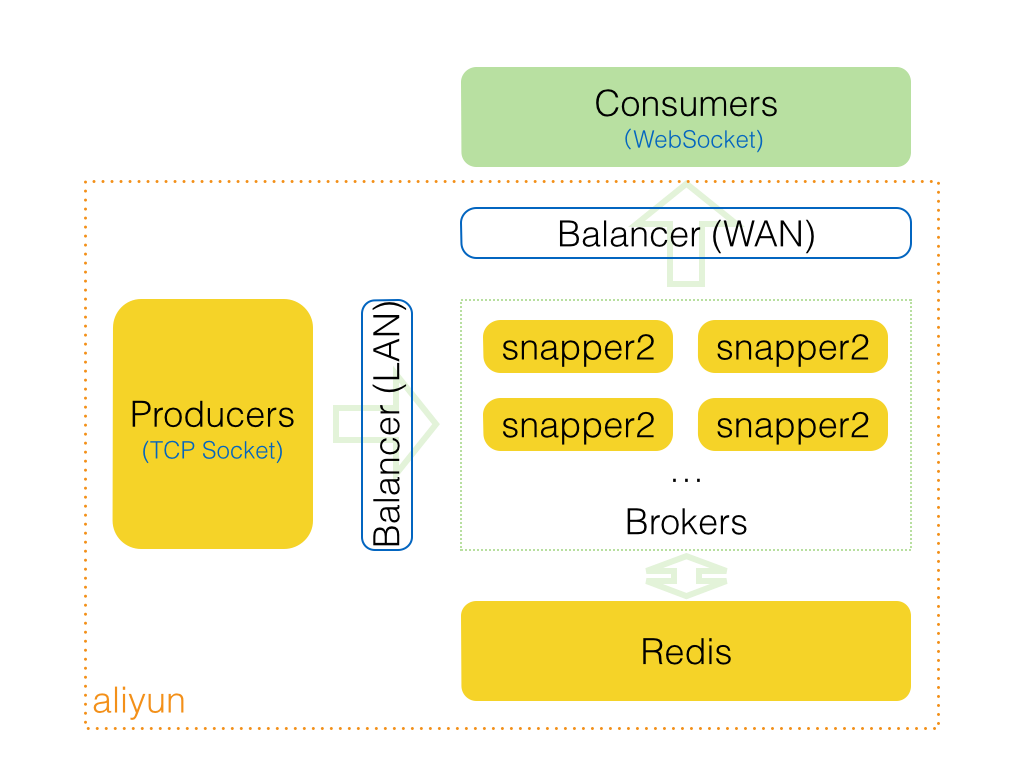
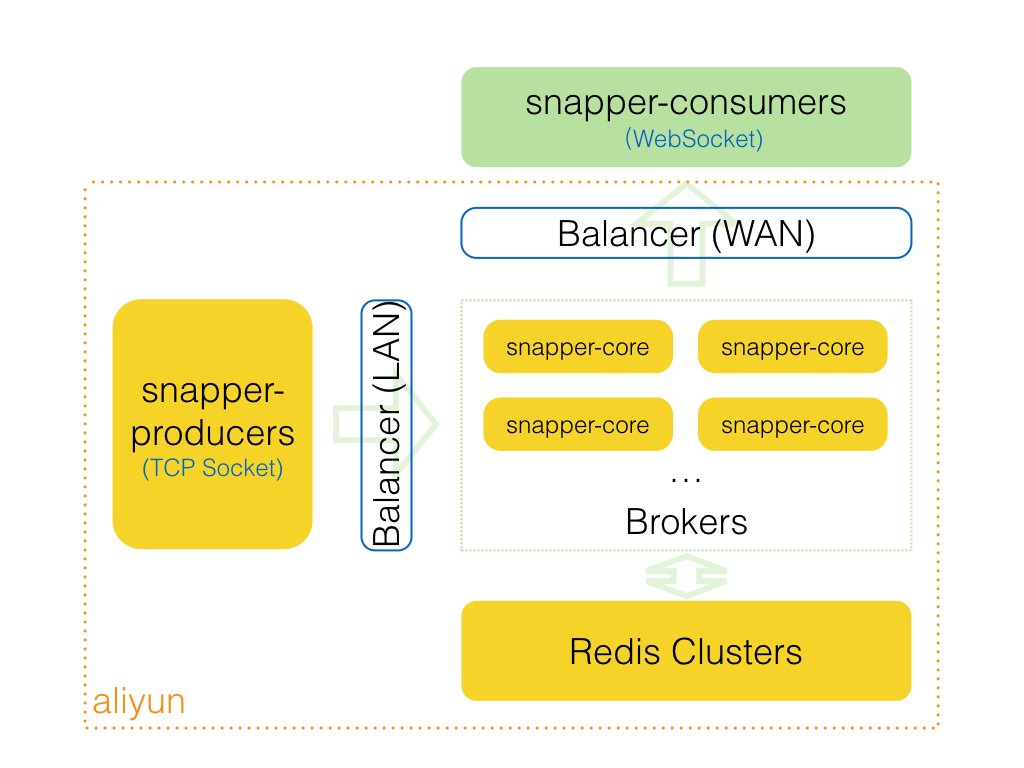
update documents

diff --git a/docs/snapper.md b/docs/snapper.md
@@ -2,33 +2,200 @@ Snapper：Teambition 分布式消息推送系统
 ====
 Teambition push messaging service, based on redis.
 
-[Snapper](https://github.com/teambition/snapper-core) 是 Teambition 开源的一个运行于 Node.js 环境的分布式消息推送系统。不同于 [kafka](https://github.com/apache/kafka)、[RabbitMQ](https://github.com/rabbitmq/rabbitmq-server)、[ActiveMQ](https://github.com/apache/activemq)，Snapper 主要用于向浏览器端、移动端推送实时消息，目前正用于 Teambition Web 端消息推送。
+[Snapper](https://github.com/teambition/snapper-core) 是 Teambition 开源的一个运行于 Node.js 环境的分布式消息推送系统。不同于 [kafka](https://github.com/apache/kafka)、[RabbitMQ](https://github.com/rabbitmq/rabbitmq-server)、[ActiveMQ](https://github.com/apache/activemq)，Snapper 主要用于向浏览器端、移动端推送实时消息，目前正用于 Teambition Web 端消息推送，可以通过 https://push.teambition.com/ 查看当前运行的版本。
 
 ### Snapper 主要特点
 
 1. 使用 JavaScript 开发，运行于 Node.js 环境；
-2. 消息队列池、状态数据池基于 Redis，支持 Redis cluster；
-3. 分布式部署，利用 `nginx ip_hash` 可在同一台机器中运行多个进程，利用 LVS 等负载均衡可以运行于多台机器；
+2. 消息队列池、状态数据池基于 Redis，并使用 lua 脚本进行核心操作，特别高效；同时支持 Redis cluster，可以随着用户负载量横向扩展；
+3. 分布式部署，利用 `nginx ip_hash` 可在同一台机器中运行多个进程，利用 LVS 等负载均衡可以运行于多台机器，可以随着用户负载量横向扩展；
 4. 消息消费者 Consumer 客户端链接基于 Engine.IO 开发，使用 websocket 协议，自动重连，自动读取消息，另可支持 Android、iOS 客户端，；
 5. 消息生产者 Producer 客户端基于 TCP 开发，内置消息队列，自动重连，确保消息发送到 Broker 服务器；
 6. 基于 [JSON-RPC 2.0](http://jsonrpc.org/specification) 协议，确保消息按序推送，推送成功且仅推送一次；
 7. 消息缓存机制，消费者断线重连后消息会自动送达（不会丢失），缓存时间可自定义，默认为 24 小时；
 8. 基于 Room 广播消息，即同一个消息可以分发给在同一个 Room 中的多个消费者；
 9. 同样基于 Room，对于同一个目标用户，支持建立多个消费链接，同一个消息可以同时推送到同一个用户的多个浏览器窗口，或各个移动端；
-10. 实时统计用户在线状态（即同一用户当前建立了多少个消费链接）。
+10. 实时统计用户在线状态：即时查询同一用户当前建立了多少个消费链接；
 11. 客户端身份验证机制，Consumer 和 Producer 发起连接时都需要通过 token 验证身份。
 
-### Snapper 构成
+相关特征细节见下文。
+
+### 系统构成
 
 Snapper 由四部分组成：
 
-1. [snapper-core](https://github.com/teambition/snapper-core) 消息 Broker，服务器端，用于与 consumer 端建立长连接，接收 producer 端生产的消息，并将消息分发到 consumers。
-2. [snapper-producer](https://github.com/teambition/snapper-producer) 消息 Producer，API 客户端，API 通过它往 Broker 推送消息。
-3. [snapper-consumer](https://github.com/teambition/snapper-consumer) 消息 Consumer，用户客户端，与 Broker 建立消息长连接并接收消息。
-4. Redis 服务，用于缓存消息，保存 room 和 consumers 关系的状态信息。
+1. [snapper-core](https://github.com/teambition/snapper-core) 消息 broker，服务器端，消息系统的核心，与 producer 端建立 TCP 长连接接收 API 服务生产的消息，它与 consumer 端建立 websocket 长连接分发推送消息。
+2. [snapper-producer](https://github.com/teambition/snapper-producer) 消息 producer，API 客户端，API 服务通过 producer 往 Brokers 推送消息。并为 consumer 端提供身份验证服务和 room 订阅服务。
+3. [snapper-consumer](https://github.com/teambition/snapper-consumer) 消息 consumer，用户客户端，consumer 从 producer 获取 token，然后与 broker 建立长连接，并通过 producer 订阅相关 room，就能接收 producer 发送到 room 的消息。
+4. Redis 服务，用于保存 rooms 和 consumers 的关系状态信息，也为每一个 consumer 建立消息缓存队列。
+
+从下面的结构图可以看出，我们可以建立 redis cluster 数据池，运行多个 snapper-core 进程来提升负载量。而 snapper-core 集群通过内网负载均衡服务对 snapper-producers 提供统一接口，通过外网负载均衡服务对 snapper-consumers 提供统一接口。因此 snapper-core 对 snapper-producer 和 snapper-consumer 而言均变成了一项“无上限”服务资源。同时由于 snapper-producer 和 snapper-consumer 内置的自动重连和缓存机制，snapper-core 服务的内部资源调整如版本更新、服务扩展等能确保对外提供稳定服务，数据不会丢失。
 
 ![snapper-architecture](https://raw.githubusercontent.com/teambition/snapper-core/master/docs/architecture.png)
 
-### Snapper 处理流程
+### 服务流程
+
+Snapper 服务的基本流程如下：
+
+1. 启动 snapper-core 服务；
+2. API 服务通过 snapper-producer 对 snapper-core 发起 TCP 长连接，并进行身份验证；
+3. 用户客户端向 API 请求 token，snapper-producer 生成 token 给用户，用户用 token 对 snapper-core 发起 websocket 长连接；
+4. 用户客户端向 API 请求订阅相关 room，API 验证用户权限后通过 snapper-producer 转发请求给 snapper-core，从而用户与 room 建立关系；
+5. API 通过 snapper-producer 往 snapper-core 的各个 room 推送消息，snapper-core 从 redis 读取 room 与用户的关系，从而把发给该 room 的消息分发给 room 内用户。
 
 ![snapper-process](https://raw.githubusercontent.com/teambition/snapper-core/master/docs/process.png)
+
+### 系统运行
+
+这里以一个简单的 demo 示意如何运行该消息系统。
+
+1. 下载并启动 snapper-core
+
+```sh
+git clone https://github.com/teambition/snapper-core.git
+cd snapper-core
+npm install --production
+# 假设 redis 已启动，我们调整 config/production.json 中的相关参数
+# 我们使用 pm2，以 production 模式启动进程
+pm2 start process/production.json
+# 让我们看看是否成功运行！
+pm2 ls
+```
+
+2. API 服务启用 snapper-producer
+
+先安装 snapper-producer：
+```sh
+npm i --save snapper-producer
+```
+
+再配置 snapper-producer：
+```js
+var Producer = require('snapper-producer')
+// 相关配置说明参考 https://github.com/teambition/snapper-producer
+var producer = new Producer(7800, 'http://127.0.0.1', {
+  producerId: 'testProducerId',
+  secretKeys: ["tokenXXXXXXX"]
+})
+// producer 会自动与 snapper-core 发起连接并认证
+```
+
+用户请求 token，API 为其生成 token：
+```js
+// 这里 userId 是必须参数，是真正识别用户的凭证
+var token = producer.signAuth({userId: 'userIdxxx'})
+```
+
+用户请求加入一个 room，API 验证其具有权限后，让他加入 room：
+```js
+producer.joinRoom(
+  'projects/51762b8f78cfa9f357000011', // 这是 teambition 的一个项目，抽象为一个 room
+  'lkoH6jeg8ATcptZQFHHH7w~~', // 这是用户连接到 snapper-core 获得的一个 consumerId
+  function (err, res) {
+    /*...*/
+    // 响应结果给用户
+  }
+)
+```
+
+API 往 room 推送消息：
+```js
+producer.sendMessage(
+  'projects/51762b8f78cfa9f357000011', // 上面示意的 room
+  '{"e":":remove:tasks","d":"553f569aca14974c5f806a01"}' // 字符串消息，这里是 Teambition 约定的消息格式
+)
+// snapper 并没有限定消息具体格式，只要是字符串即可，完全由 snapper-producer 和 snapper-consumer 相互约定
+```
+
+3. 用户客户端启用 snapper-consumer：
+
+先安装 snapper-consumer：
+```sh
+npm i --save snapper-consumer
+```
+或：
+```sh
+ bower i --save snapper-consumer
+```
+
+这里是 Teambition web 端的源码，我们对 snapper-consumer 进行了一层简单的封装 `lib/socket.coffee`：
+
+```coffee
+define((require, exports, module) ->
+
+  teambition = require('teambition')
+  Backbone   = require('backbone')
+  Consumer   = require('consumer')
+  http       = require('lib/http-thunks')
+
+  class SocketClient extends Consumer
+
+    onopen: ->
+      console.info('--- WebSocket Opend ---') if teambition.env is 'development'
+
+    onmessage: (event) ->
+      # 使用 json-rpc
+      if event.type isnt 'request'
+        # 非法消息类型，通常不应该有
+        return @onerror(new Error('It is not a request: ' + JSON.stringify(event.data)))
+
+      # 一次推送可能包含 1~20 条消息，所以这里是一个消息数组
+      while event.data.params.length
+        try
+          # 每一条消息都是一个 json string
+          data = JSON.parse(event.data.params.shift())
+          if data and typeof data.e is 'string'
+            # parse 出来后通过 backbone 的事件机制 trigger 出去，各种相关事件监听者会得到自己关心的数据
+            @trigger(data.e, data.d)
+          else
+            @onerror(new Error('Unprocessable entity: ' + JSON.stringify(data)))
+        catch err
+          @onerror(err)
+
+    _join: (room, consumerId) ->
+      # 因为加入到 room 是向 API 服务发起请求，经过 API 验证权限后才能真正加入到 room
+      # 所以 _join 方法才是真正的 join room 逻辑实现，这里是通过 ajax 请求到 API
+      http.post("#{room}/subscribe", {consumerId: consumerId})()
+
+  _.extend(SocketClient.prototype, Backbone.Events)
+
+  return new SocketClient()
+)
+```
+
+上面封装成模块后，再初始化：
+```coffee
+socketClient = require('lib/socket')
+socketClient.connect('https://push.teambition.com', {
+  path: '/websocket'
+  token: 'snapperTokenxxxxxx'
+})
+```
+
+### 横向扩展机制
+
+#### Enable `nginx ip_hash`: http://socket.io/docs/using-multiple-nodes/
+
+### 单用户多消费者机制
+
+### 消息保证机制
+
+### 用户在线状态机制
+
+### 服务状态
+
+```
+http://127.0.0.1:7701/stats?token=eyJ0eXAiOiJKV1QiLCJhbGciOiJIUzI1NiJ9.eyJuYW1lIjoic25hcHBlciIsImV4cCI6MTQzMTY3MjMzMX0.juk5pMD-SWqQErqL8CwX7zeNtbGFZxtyC710Z7fRpkM
+```
+其中，`token` 可通过如下方式生成：
+
+```js
+var token = snapperProducer.signAuth({name: 'snapper'});
+```
+`{name: 'snapper'}` 为必须参数
+
+或者直接在 snapper 下运行（确保 config 中的 `tokenSecret` 正确）
+
+```bash
+NODE_ENV=production node bin/token
+```

diff --git a/README.md b/README.md
@@ -4,36 +4,44 @@ Teambition push messaging service, based on redis.
 
 [![NPM version][npm-image]][npm-url]
 [![Build Status][travis-image]][travis-url]
+[![js-standard-style][js-standard-image]][js-standard-url]
 
-[Snapper](https://github.com/teambition/snapper-core) 是 Teambition 开源的一个运行于 Node.js 环境的分布式消息推送系统。不同于 [kafka](https://github.com/apache/kafka)、[RabbitMQ](https://github.com/rabbitmq/rabbitmq-server)、[ActiveMQ](https://github.com/apache/activemq)，Snapper 主要用于向浏览器端、移动端推送实时消息，目前正用于 Teambition Web 端消息推送。
+[Snapper](https://github.com/teambition/snapper-core) 是 Teambition 开源的一个运行于 Node.js 环境的分布式消息推送系统。不同于 [kafka](https://github.com/apache/kafka)、[RabbitMQ](https://github.com/rabbitmq/rabbitmq-server)、[ActiveMQ](https://github.com/apache/activemq)，Snapper 主要用于向浏览器端、移动端推送实时消息，目前正用于 Teambition Web 端消息推送，可以通过 https://push.teambition.com/ 查看当前运行的版本。
 
 ### Snapper 主要特点
 
 1. 使用 JavaScript 开发，运行于 Node.js 环境；
-2. 消息队列池、状态数据池基于 Redis，支持 Redis cluster；
-3. 支持分布式部署，利用 `nginx ip_hash` 可在同一台机器中开启多个进程，利用 LVS 等负载均衡可以开启多台机器；
-4. 消息消费者 Consumer 客户端链接基于 Engine.IO 开发，使用 websocket 协议，自动重连，自动读取消息，可支持 Android、iOS 客户端；
+2. 消息队列池、状态数据池基于 Redis，并使用 lua 脚本进行核心操作，特别高效；同时支持 Redis cluster，可以随着用户负载量横向扩展；
+3. 分布式部署，利用 `nginx ip_hash` 可在同一台机器中运行多个进程，利用 LVS 等负载均衡可以运行于多台机器，可以随着用户负载量横向扩展；
+4. 消息消费者 Consumer 客户端链接基于 Engine.IO 开发，使用 websocket 协议，自动重连，自动读取消息，另可支持 Android、iOS 客户端，；
 5. 消息生产者 Producer 客户端基于 TCP 开发，内置消息队列，自动重连，确保消息发送到 Broker 服务器；
 6. 基于 [JSON-RPC 2.0](http://jsonrpc.org/specification) 协议，确保消息按序推送，推送成功且仅推送一次；
 7. 消息缓存机制，消费者断线重连后消息会自动送达（不会丢失），缓存时间可自定义，默认为 24 小时；
 8. 基于 Room 广播消息，即同一个消息可以分发给在同一个 Room 中的多个消费者；
-9. 同样基于 Room，对于同一个目标用户，支持建立多个消费链接，如同一份消息可以同时往多个浏览器窗口，或各个移动端推送；
-10. 实时统计用户在线状态（即同一用户当前建立了多少个消费链接）。
+9. 同样基于 Room，对于同一个目标用户，支持建立多个消费链接，同一个消息可以同时推送到同一个用户的多个浏览器窗口，或各个移动端；
+10. 实时统计用户在线状态：即时查询同一用户当前建立了多少个消费链接；
+11. 客户端身份验证机制，Consumer 和 Producer 发起连接时都需要通过 token 验证身份。
 
-### Snapper 构成
+相关特征细节见下文。
 
-#### Snapper 由四部分组成：
+### 系统构成
 
-1. [snapper-core](https://github.com/teambition/snapper-core) 消息 Broker，服务器端，用于与 consumer 端建立长连接，接收 producer 端生产的消息，并将消息分发到 consumers。
-2. [Snapper-producer](https://github.com/teambition/snapper-producer) 消息 Producer，API 客户端，API 通过它往 Broker 推送消息。
-3. [Snapper-consumer](https://github.com/teambition/snapper-consumer) 消息 Consumer，用户客户端，与 Broker 建立消息长连接并接收消息。
-4. Redis 服务。
+Snapper 由四部分组成：
 
-![snapper-architecture](https://raw.githubusercontent.com/teambition/snapper-core/master/docs/architecture.png)
+1. [snapper-core](https://github.com/teambition/snapper-core) 消息 broker，服务器端，消息系统的核心，与 producer 端建立 TCP 长连接接收 API 服务生产的消息，它与 consumer 端建立 websocket 长连接分发推送消息。
+2. [snapper-producer](https://github.com/teambition/snapper-producer) 消息 producer，API 客户端，API 服务通过 producer 往 Brokers 推送消息。并为 consumer 端提供身份验证服务和 room 订阅服务。
+3. [snapper-consumer](https://github.com/teambition/snapper-consumer) 消息 consumer，用户客户端，consumer 从 producer 获取 token，然后与 broker 建立长连接，并通过 producer 订阅相关 room，就能接收 producer 发送到 room 的消息。
+4. Redis 服务，用于保存 rooms 和 consumers 的关系状态信息，也为每一个 consumer 建立消息缓存队列。
 
-![snapper-process](https://raw.githubusercontent.com/teambition/snapper-core/master/docs/process.png)
+### 服务流程
 
-### Enable `nginx ip_hash`: http://socket.io/docs/using-multiple-nodes/
+Snapper 服务的基本流程如下：
+
+1. 启动 snapper-core 服务；
+2. API 服务通过 snapper-producer 对 snapper-core 发起 TCP 长连接，并进行身份验证；
+3. 用户客户端向 API 请求 token，snapper-producer 生成 token 给用户，用户用 token 对 snapper-core 发起 websocket 长连接；
+4. 用户客户端向 API 请求订阅相关 room，API 验证用户权限后通过 snapper-producer 转发请求给 snapper-core，从而用户与 room 建立关系；
+5. API 通过 snapper-producer 往 snapper-core 的各个 room 推送消息，snapper-core 从 redis 读取 room 与用户的关系，从而把发给该 room 的消息分发给 room 内用户。
 
 ### install
 
@@ -43,26 +51,14 @@ cd snapper-core
 npm install --production
 ```
 
-### get servers stats
+### [更多文档](https://github.com/teambition/snapper-core/blob/master/docs/snapper.md)
 
-```
-http://127.0.0.1:7701/stats?token=eyJ0eXAiOiJKV1QiLCJhbGciOiJIUzI1NiJ9.eyJuYW1lIjoic25hcHBlciIsImV4cCI6MTQzMTY3MjMzMX0.juk5pMD-SWqQErqL8CwX7zeNtbGFZxtyC710Z7fRpkM
-```
-其中，`token` 可通过如下方式生成：
-
-```js
-var token = snapperProducer.signAuth({name: 'snapper'});
-```
-`{name: 'snapper'}` 为必须参数
-
-或者直接在 snapper 下运行（确保 config 中的 `tokenSecret` 正确）
-
-```bash
-NODE_ENV=production node bin/token
-```
 
 [npm-url]: https://npmjs.org/package/snapper-core
 [npm-image]: http://img.shields.io/npm/v/snapper-core.svg
 
 [travis-url]: https://travis-ci.org/teambition/snapper-core
 [travis-image]: http://img.shields.io/travis/teambition/snapper-core.svg
+
+[js-standard-url]: https://github.com/feross/standard
+[js-standard-image]: https://img.shields.io/badge/code%20style-standard-brightgreen.svg?style=flat
